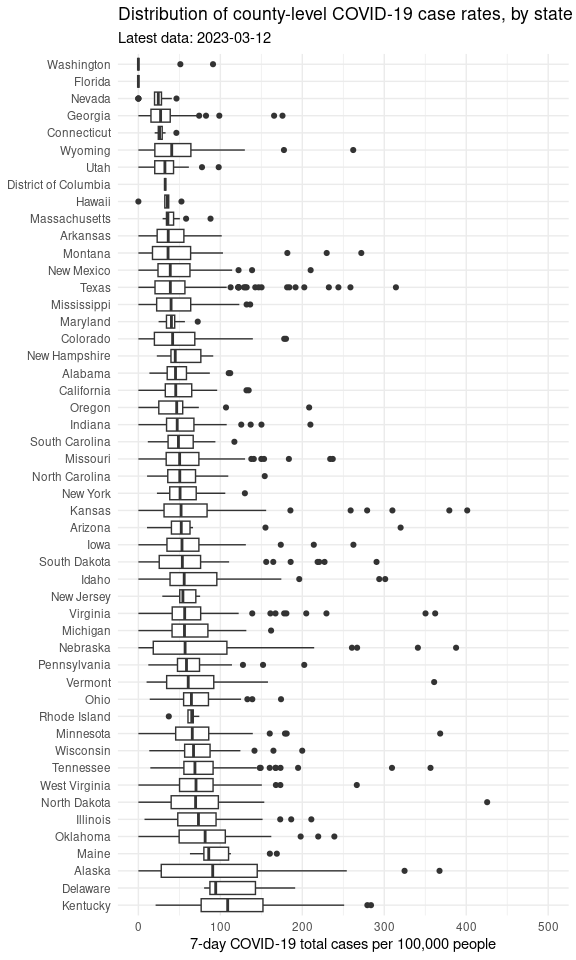
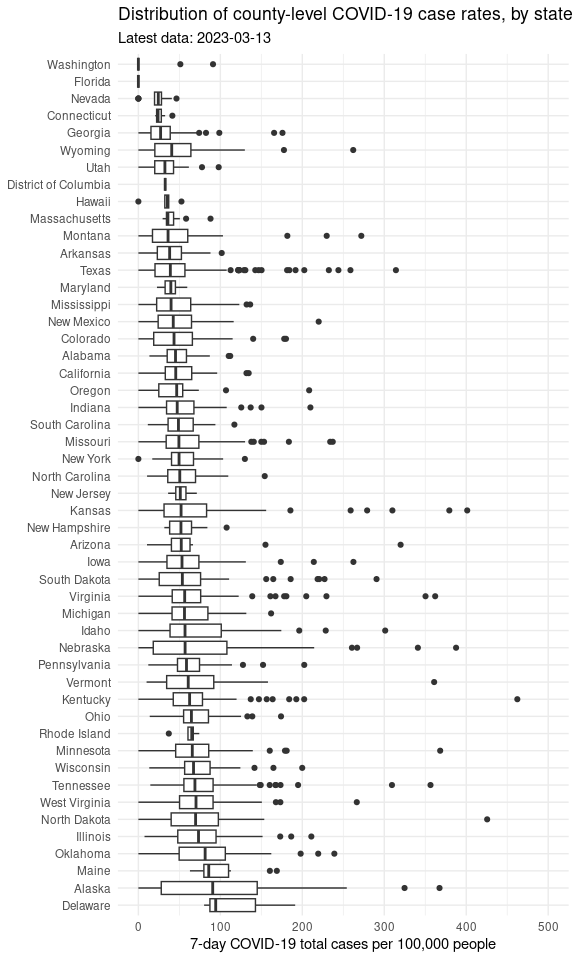
Updated report

diff --git a/README.md b/README.md
@@ -1,7 +1,7 @@
 Minnesota COVID Report
 ================
 
-Report last run: 2023-03-13 22:08:27
+Report last run: 2023-03-14 22:07:52
 
 ## Introduction
 
@@ -108,12 +108,12 @@ rate_data %>%
 | county                   | state        |   pop | covid_rate |
 |:-------------------------|:-------------|------:|-----------:|
 | Garfield                 | Nebraska     |  1969 |       1219 |
-| Mineral                  | Colorado     |   769 |       1040 |
+| Mineral                  | Colorado     |   769 |       1170 |
 | Hodgeman                 | Kansas       |  1794 |        669 |
 | Lamb                     | Texas        | 12893 |        667 |
 | Rolette                  | North Dakota | 14176 |        642 |
-| Union                    | Kentucky     | 14381 |        570 |
 | Bethel Census Area       | Alaska       | 18386 |        506 |
+| Menifee                  | Kentucky     |  6489 |        462 |
 | Sioux                    | North Dakota |  4230 |        426 |
 | Clark                    | Kansas       |  1994 |        401 |
 | Thurston                 | Nebraska     |  7224 |        388 |
